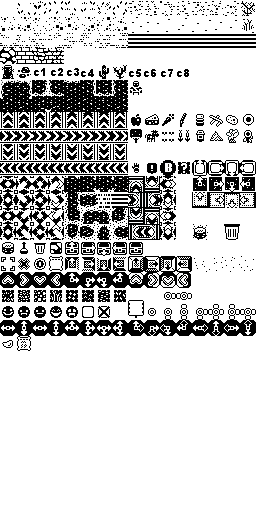
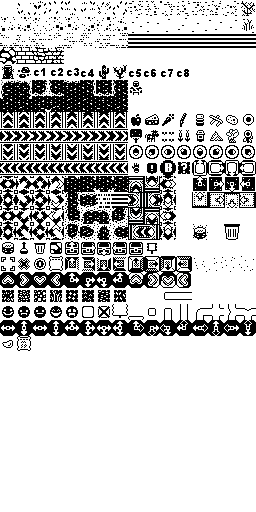
add sign

diff --git a/src/generate.c b/src/generate.c
@@ -152,8 +152,6 @@ void getPathSprite(struct Location_t* loc, uint16_t* _outSprite, LCDBitmapFlip* 
     else if (!N) { *_outFlip = kBitmapUnflipped; *_outSprite = SPRITE16_ID(15 , 19); }
     else if (!S) { *_outFlip = kBitmapFlippedY;  *_outSprite = SPRITE16_ID(15 , 19); }
   }
-
-  //pd->system->logToConsole("result %i %i %i %i, %i, %i", N, E, S, W, *_outSprite, *_outFlip);
 }
 
 void renderChunkBackgroundImage(struct Chunk_t* _chunk) {
@@ -249,6 +247,14 @@ void renderChunkBackgroundImage(struct Chunk_t* _chunk) {
         pd->graphics->drawBitmap(building->m_image[1], building->m_pix_x - off16_x, building->m_pix_y - off16_y, flip ? kBitmapFlippedX : kBitmapUnflipped);
         pd->graphics->setDrawMode(kDrawModeCopy);
       }
+      //
+      if (building->m_type == kUtility && building->m_subType.utility == kSign) {
+        pd->graphics->drawBitmap(getSprite16(8, 19, 1), building->m_pix_x - off16_x, building->m_pix_y - off16_y - TILE_PIX, kBitmapUnflipped);
+        if (building->m_mode.mode16) {
+          pd->graphics->drawBitmap(getSprite16_byidx( CargoDesc[building->m_mode.mode16].UIIcon, 1 ), building->m_pix_x - off16_x, building->m_pix_y - off16_y - TILE_PIX/4, kBitmapUnflipped);
+        }
+      }
+
     }
   }
 

diff --git a/src/ui/inventory.c b/src/ui/inventory.c
@@ -86,7 +86,14 @@ void doPlace() {
       else if (selectedID == kLandfill) placed = doPlaceLandfill(placeLocation);
       else placed = newBuilding(placeLocation, getCursorRotation(), kUtility, (union kSubType) {.utility = selectedID} );
       break;
-    case kUICatCargo: placed = newCargo(placeLocation, selectedID, /*add to display*/ true); break;
+    case kUICatCargo: 
+      if (placeLocation->m_building && placeLocation->m_building->m_type == kUtility && placeLocation->m_building->m_subType.utility == kSign) {
+        placeLocation->m_building->m_mode.mode16 = selectedID;
+        renderChunkBackgroundImage(placeLocation->m_chunk);
+      } else {
+        placed = newCargo(placeLocation, selectedID, /*add to display*/ true); 
+      }
+      break;
     case kUICatWarp: break;
     case kUICatImportN: case kUICatImportE: case kUICatImportS: case kUICatImportW: break; 
     case kNUICats: break;

diff --git a/src/building.c b/src/building.c
@@ -70,6 +70,7 @@ const char* toStringBuilding(enum kBuildingType _type, union kSubType _subType, 
     }
     case kUtility: switch (_subType.utility) {
       case kPath: return "Path";
+      case kSign: return "Sign";
       case kBin: return "Trash Bin";
       case kWell: return "Well";
       case kStorageBox: return "Storage Box";
@@ -242,6 +243,9 @@ void assignUpdate(struct Building_t* _building) {
 bool buildingHasUpdateFunction(enum kBuildingType _type, union kSubType _subType) {
   if (_type == kUtility && _subType.utility == kWell) return false;
   if (_type == kUtility && _subType.utility == kPath) return false;
+  if (_type == kUtility && _subType.utility == kSign) return false;
+  if (_type == kSpecial && _subType.special == kWarp) return false;
+  if (_type == kSpecial && _subType.special == kShop) return false;
   return true;
 }
 

diff --git a/src/ui.c b/src/ui.c
@@ -1031,8 +1031,12 @@ void drawUIMain() {
         pd->sprite->setVisible(m_contentSprite[rID][c], 1);
         pd->sprite->moveTo(m_contentSprite[rID][c], UISTARTX + c*2*TILE_PIX, UISTARTY + r*2*TILE_PIX);
         if (m_contentStickySelected[rID][c] != NULL) {
-          pd->sprite->setVisible(m_contentStickySelected[rID][c], 1);
-          pd->sprite->moveTo(m_contentStickySelected[rID][c], UISTARTX + c*2*TILE_PIX, UISTARTY + r*2*TILE_PIX);
+
+  pd->system->logToConsole("rid %i c %i sprite %i", rID, c, (int)m_contentStickySelected[rID][c]);
+
+          // TODO this started to crash?
+          //pd->sprite->setVisible(m_contentStickySelected[rID][c], 1);
+          //pd->sprite->moveTo(m_contentStickySelected[rID][c], UISTARTX + c*2*TILE_PIX, UISTARTY + r*2*TILE_PIX);
         }
       }
     }

diff --git a/src/buildings/utility.c b/src/buildings/utility.c
@@ -131,6 +131,16 @@ void drawUIInspectUtility(struct Building_t* _building) {
     snprintf(text, 128, "Movement speed is enhanced on the path.");
     pd->graphics->drawText(text, 128, kASCIIEncoding, TILE_PIX*2, TUT_Y_SPACING*(++y) - TUT_Y_SHFT);
 
+   } else if (ust == kSign) {
+
+    snprintf(text, 128, "Place a Cargo here to display it on the Sign.");
+    pd->graphics->drawText(text, 128, kASCIIEncoding, TILE_PIX*2, TUT_Y_SPACING*(++y) - TUT_Y_SHFT);
+
+    if (_building->m_mode.mode16) {
+      snprintf(text, 128, "Sign for: %s", toStringCargoByType( _building->m_mode.mode16 ) );
+      pd->graphics->drawText(text, 128, kASCIIEncoding, TILE_PIX*2, TUT_Y_SPACING*(++y) - TUT_Y_SHFT);
+    }
+
   } else if (ust == kBin) {
 
     snprintf(text, 128, "Permanently erases unwanted Cargo.");

diff --git a/src/bdescriptors.c b/src/bdescriptors.c
@@ -32,6 +32,7 @@ const struct PlantDescriptor_t PDesc[] = {
 
 const struct UtilityDescriptor_t UDesc[] = {
   {.subType = kPath, .unlock = 38, .price = 100, .UIIcon = SID(13,19), .sprite = SID(0,0)},
+  {.subType = kSign, .unlock = 38, .price = 100, .UIIcon = SID(9,15), .sprite = SID(7,19)},
   {.subType = kBin, .unlock = 38, .price = 100, .UIIcon = SID(2,15), .sprite = SID(14,14)},
   {.subType = kWell, .unlock = 39, .price = 1000, .UIIcon = SID(0,15), .sprite = SID(12,14)},
   {.subType = kStorageBox, .unlock = 40, .price = 1, .UIIcon = SID(8,15), .sprite = SID(8,15)},

diff --git a/src/blists.h b/src/blists.h
@@ -25,13 +25,14 @@ enum kPlantSubType{
   kLimeTree, // Desert
   kStrawberryPlant, // Clay - Need to do more with this
   kHempPlant, // Clay 
-  kCoffeePlant, // Loomy. Need another loomy... - Need to do more with this
+  kCoffeePlant, // Loamy. Need another loamy... - Need to do more with this
   //kP0, kP1, kP2, kP3, kP4, kP5, kP6, kP7, kP8, kP9, kP10, kP11, kP12, kP13, kP14, kP15, 
   kNPlantSubTypes
 };
 
 enum kUtilitySubType{
   kPath,
+  kSign,
   kBin, 
   kWell, 
   kStorageBox,

diff --git a/src/ui/new.c b/src/ui/new.c
@@ -103,6 +103,7 @@ const char* getNewText() {
     }
     case kUICatUtility: switch (m_nextSubType.utility) {
       case kPath: return "Movement speed is enhanced while on a path";
+      case kSign: return "Displays a Cargo of your choosing";
       case kBin: return "Cargo placed here will get destroyed";
       case kWell: return "Place to dampen the surrounding soil";
       case kStorageBox: return "Stores up to 3 different types of Cargo";

diff --git a/src/buildings/special.c b/src/buildings/special.c
@@ -118,8 +118,7 @@ void specialUpdateFn(struct Building_t* _building, uint8_t _tick, uint8_t _zoom)
     case kSellBox:; return sellBoxUpdateFn(_building);
     case kExportBox:; return exportUpdateFn(_building, _tick);
     case kImportBox:; return importUpdateFn(_building, _tick);
-    case kShop:; case kWarp:; return;
-    case kNSpecialSubTypes:; return;
+    default: return;
   }
 }
 
